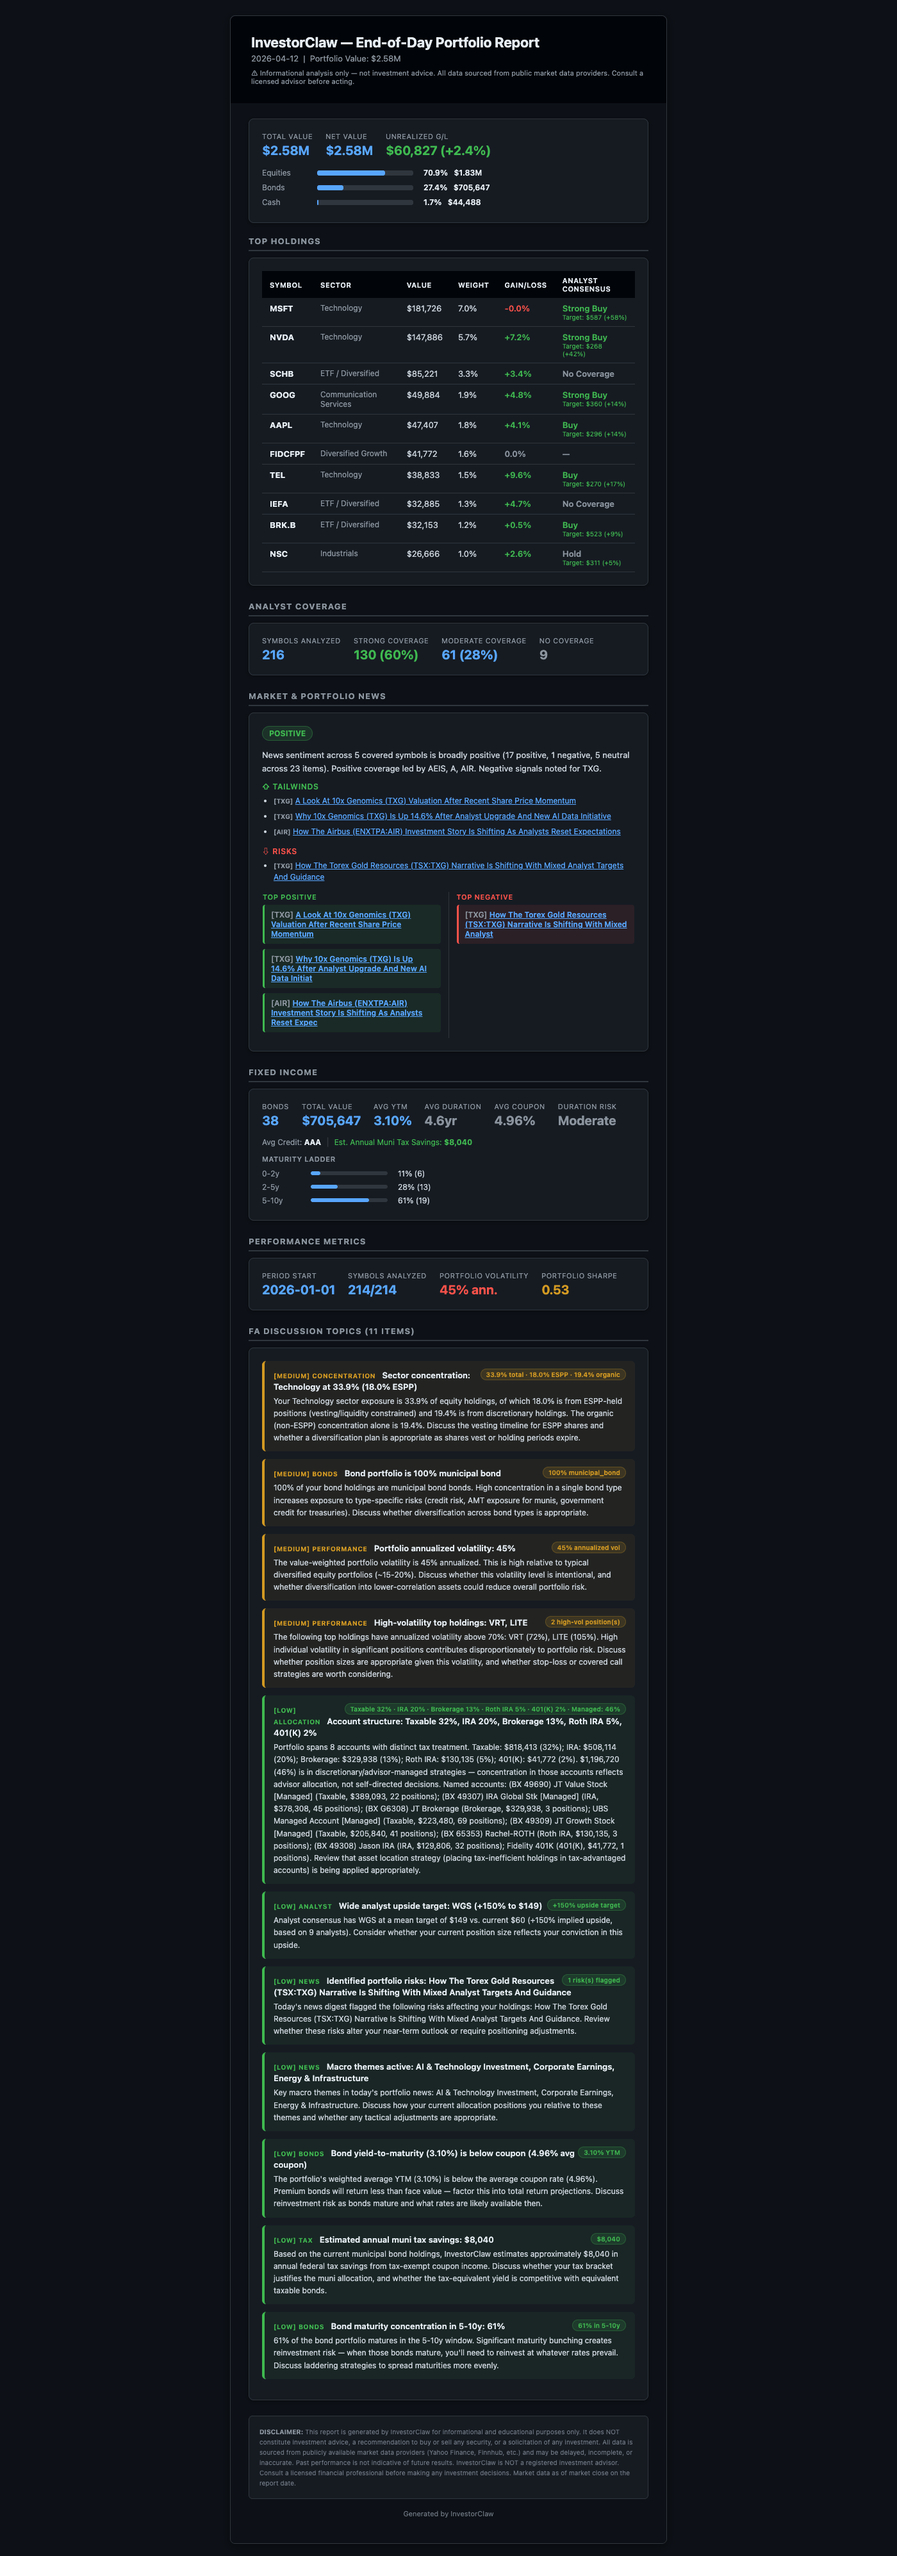
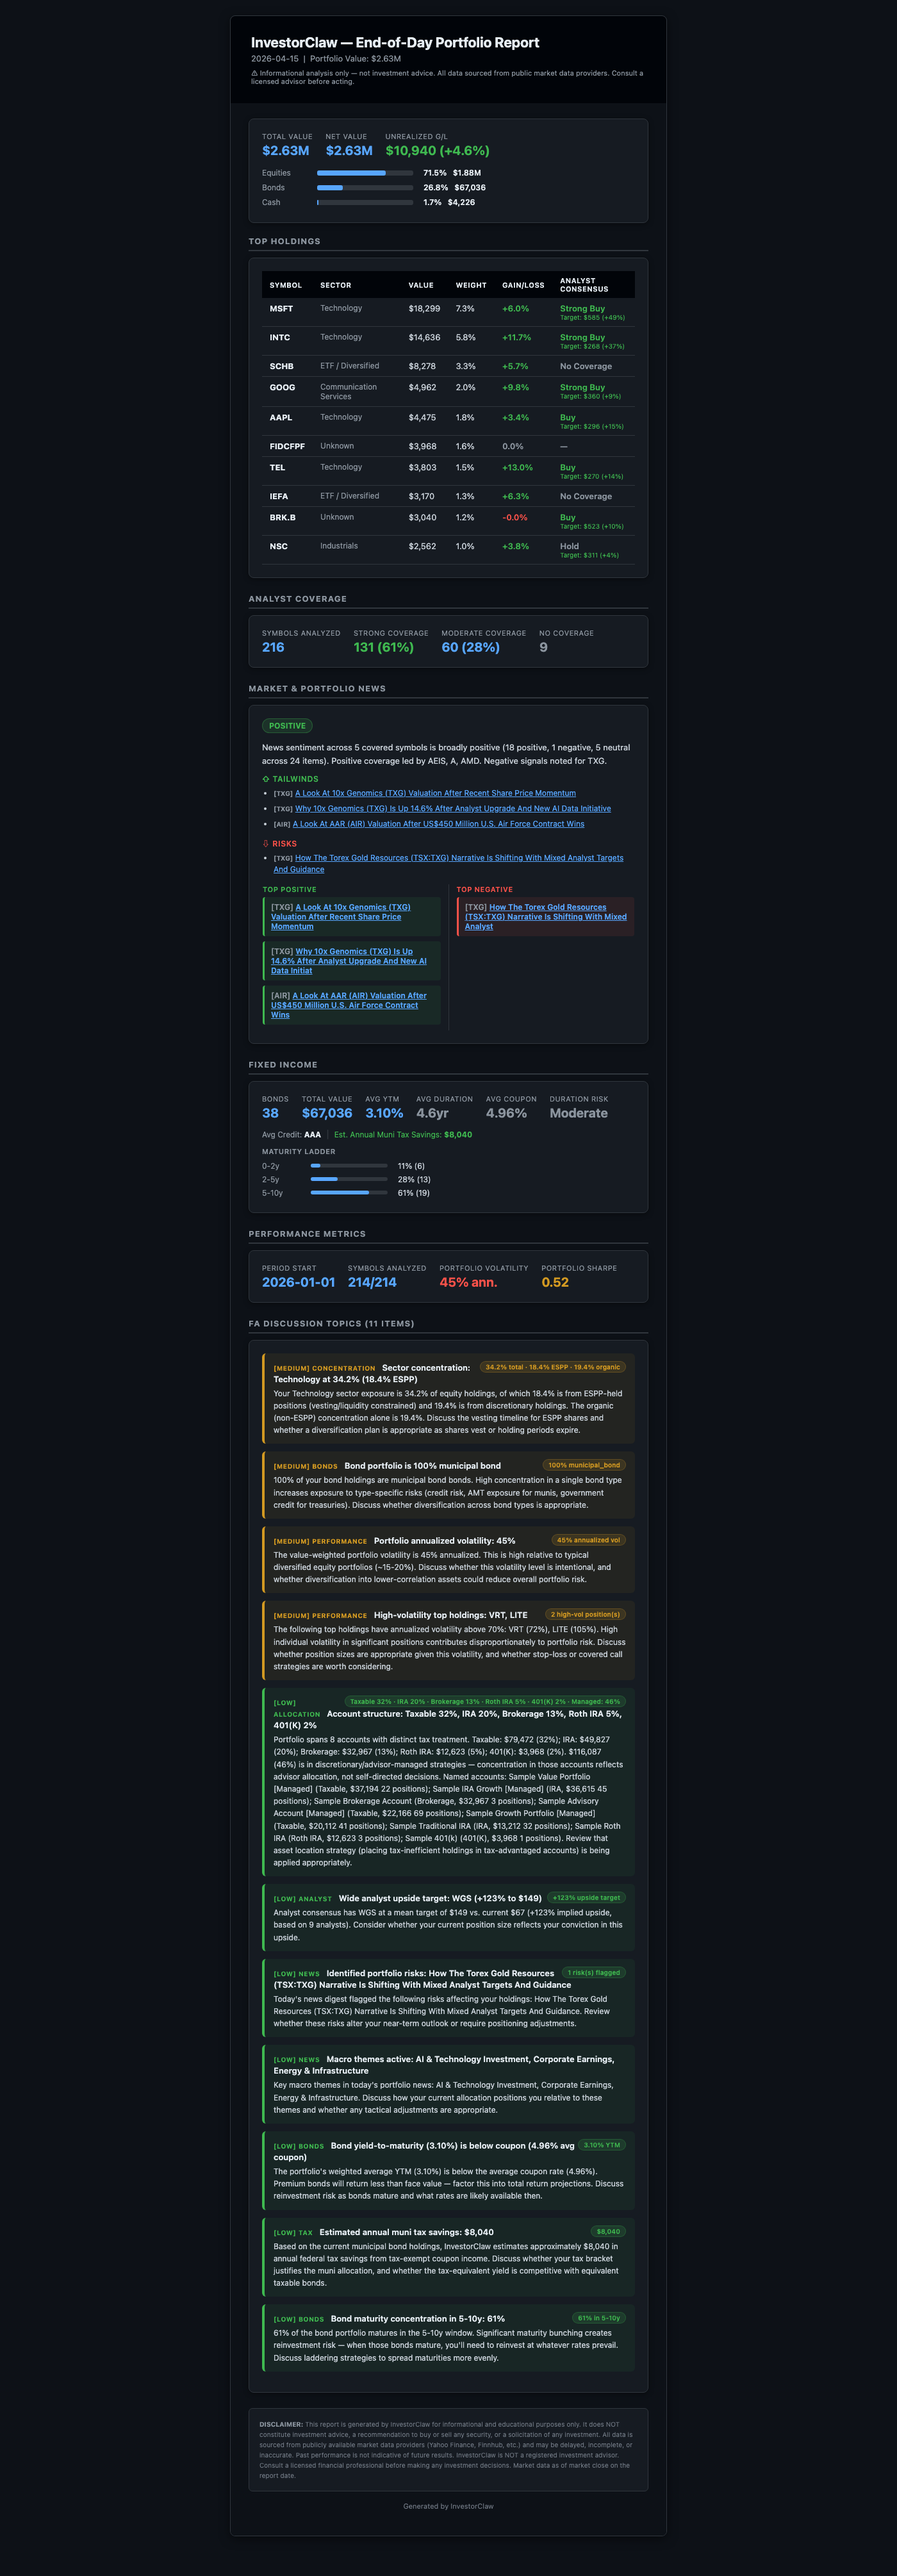
docs: replace EOD screenshot with synthesized sample; remove NVDA from README
- assets/eod-report-sample.png: regenerated from synthesized EOD HTML using
  sample account data (real portfolio data scrubbed, dollar values scaled,
  account names anonymized, NVDA replaced with INTC)
- README.md: replace NVIDIA/NVDA in stonkmode persona examples with MSFT/GOOG
- README.md: remove @nvidia.com email from attribution line
- README.md: TL;DR stonkmode blurb reframed (analysis leads, entertainment follows)

Changed region(s): [[0.2764, 0.0311, 0.7064, 0.9947], [0.3071, 0.0311, 0.3379, 0.0622]]

diff --git a/README.md b/README.md
@@ -307,19 +307,19 @@ off digital; cosmic can foil cosmic for maximum chaos):
 └─────────────────────────────────────────────────────────────┘
 
 ▌ KING DONNY (THE DEAL WHISPERER)
-  NVIDIA, MSFT, AAPL — tremendous companies, the best
-  companies, everybody agrees. NVDA is up 340% and frankly
+  MSFT, AAPL, GOOG — tremendous companies, the best
+  companies, everybody agrees. MSFT is up 180% and frankly
   that's because of me. The CEO, very nice man, called me
   personally. Apple? Cook's been great, very cooperative.
-  Microsoft? Satya's fine, fine man. These are BEAUTIFUL
-  positions. The bond ladder is a TOTAL DISASTER — rigged
-  rates, very unfair to the portfolio. Short-sellers are
-  losers, and I can tell you they will not succeed. That I
-  can tell you.
+  Google? Very smart people, tremendous search. These are
+  BEAUTIFUL positions. The bond ladder is a TOTAL DISASTER
+  — rigged rates, very unfair to the portfolio. Short-
+  sellers are losers, and I can tell you they will not
+  succeed. That I can tell you.
 
 ▌ GLORB, SENIOR LEDGER-KEEPER OF THE SEVENTH VAULT
   Disturbed, the Vault Elders are. Speak so casually of
-  the Entrusted Treasures, the tall one does. NVIDIA — a
+  the Entrusted Treasures, the tall one does. MSFT — a
   treasure of great luminance, yes, but concentrated it
   is. Unbalanced, the Sacred Ledger shows. Weep, the Vault
   Elders do, when forty-two percent in one vessel sits.
@@ -340,8 +340,7 @@ of what good entertainment writing requires.
 Cloud LLM narration is supported via `INVESTORCLAW_STONKMODE_PROVIDER=openai_compat`
 with any OpenAI-compatible endpoint (xAI Grok, Claude, GPT-4o).
 
-> **Attribution**: Stonkmode is inspired by (but is not a copy of) original work by
-> Matt Madson (mmadson@nvidia.com).
+> **Attribution**: Stonkmode is inspired by (but is not a copy of) original work by Matt Madson.
 
 ---
 
